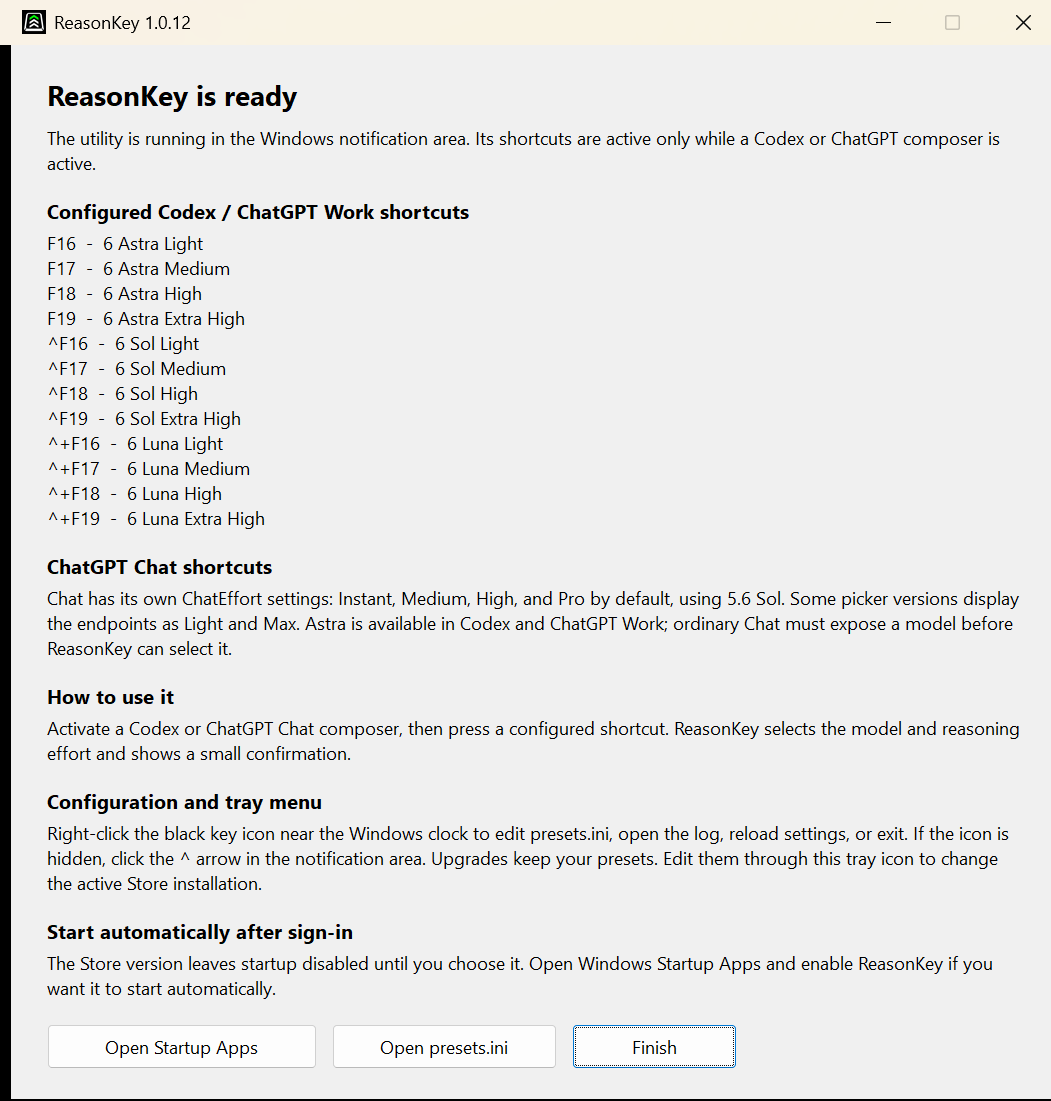
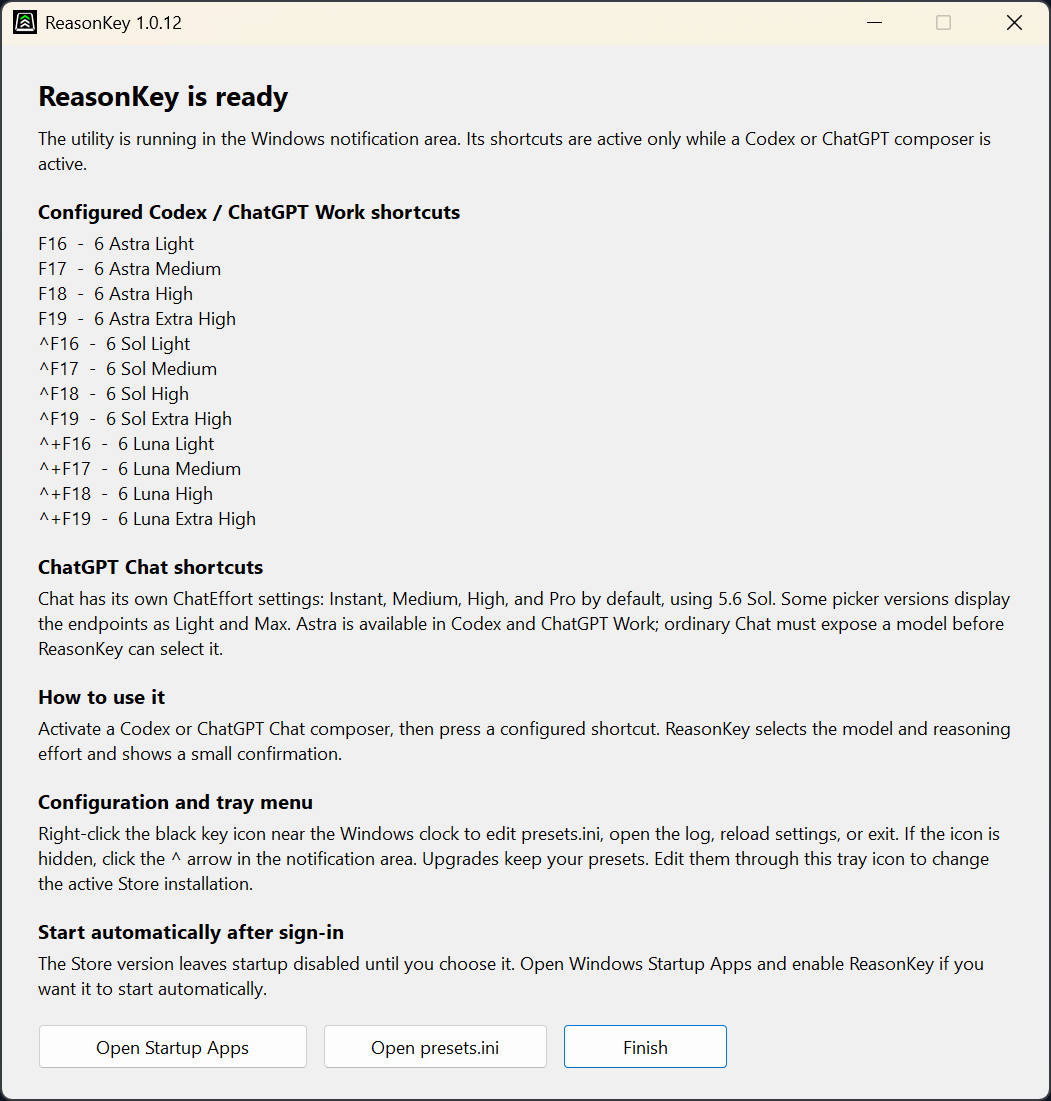
Capture complete composed window for Store screenshots

diff --git a/packaging/store/README.md b/packaging/store/README.md
@@ -38,16 +38,29 @@ Start-Process .\dist\ReasonKey.exe `
 
 The preview flag shows the same Store first-run content in a compact window. It
 does not create a package identity or change Startup Apps settings.
-Capture the window and then build the Store-sized neutral canvas:
+Keep the complete preview window in the foreground, unobscured and fully on a
+monitor. Capture the window
+and then build the Store-sized neutral canvas:
 
 ```powershell
-.\scripts\Capture-StoreWindow.ps1 -ProcessId <preview-process-id>
+.\scripts\Capture-StoreWindow.ps1 -ProcessId <preview-process-id> `
+  -OutputPath packaging\store\assets\ReasonKey-QuickStart-1.0.12-window.png
 .\scripts\Build-StoreScreenshot.ps1 `
   -WindowScreenshot packaging\store\assets\ReasonKey-QuickStart-1.0.12-window.png `
   -CanvasWidth 1600 -CanvasHeight 1200
 ```
 
-Close the preview after the capture.
+The capture script uses physical-pixel DWM bounds and the composed screen image.
+It briefly stages a neutral backdrop behind the real window so the rounded
+corners contain no unrelated desktop content, then removes that backdrop.
+Do not use PrintWindow for this asset: it can leave black strips where Windows
+composes the frame. Before using or uploading a capture, visually inspect all
+four edges, rounded corners, title, every shortcut and the bottom buttons in
+both the raw capture and the final canvas. A successful API call is not visual
+verification. Retake a clipped, obscured or malformed capture; do not paint over
+the defect or hide it with arbitrary crop offsets.
+
+Close the preview after the capture and restore any runtime stopped for preview.
 
 ## Before upload
 
